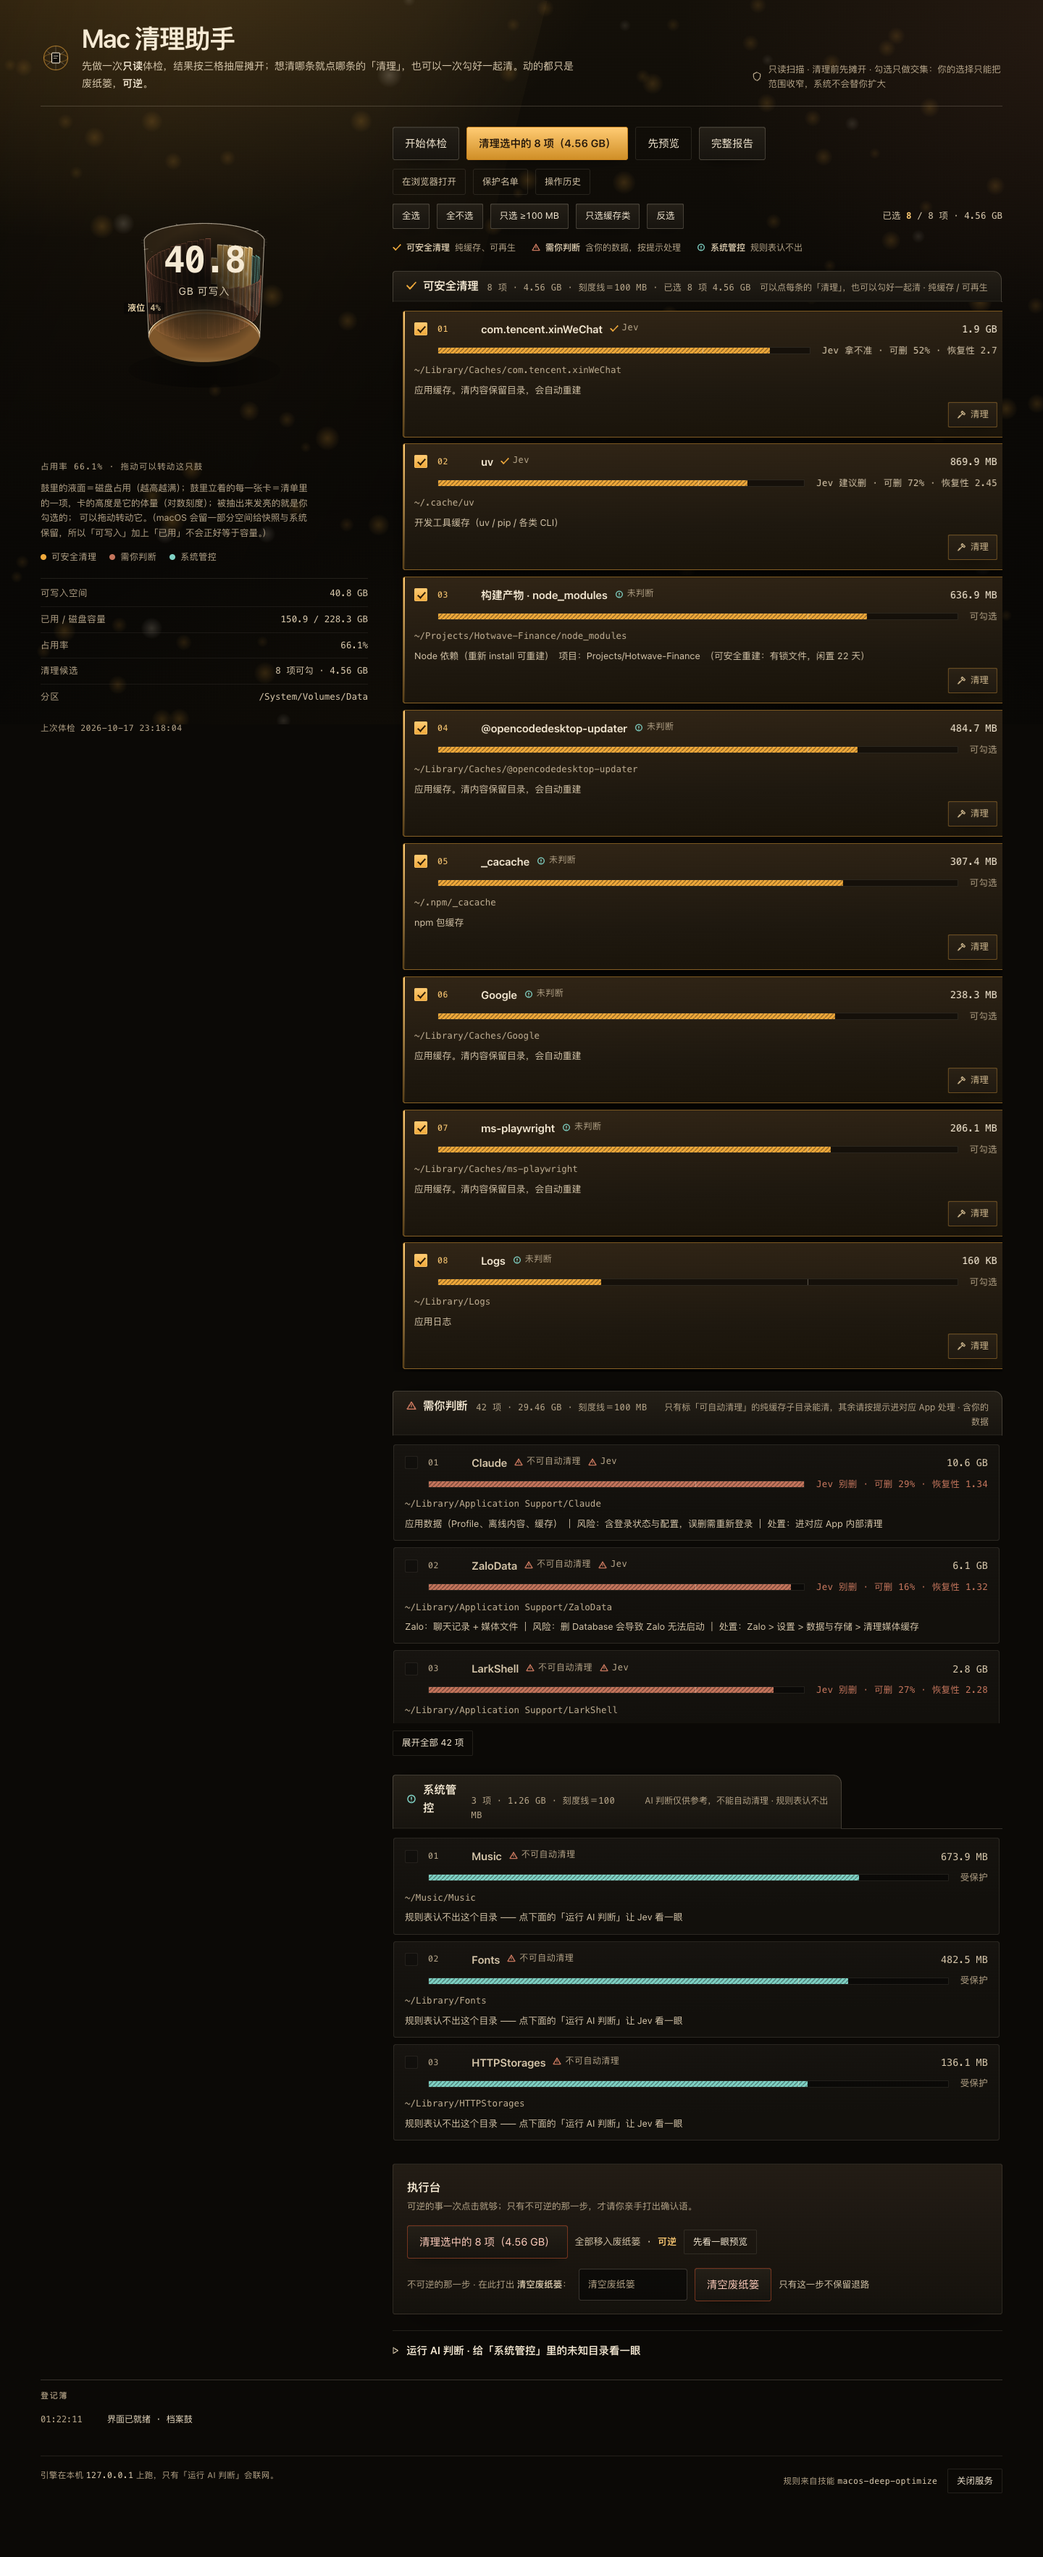
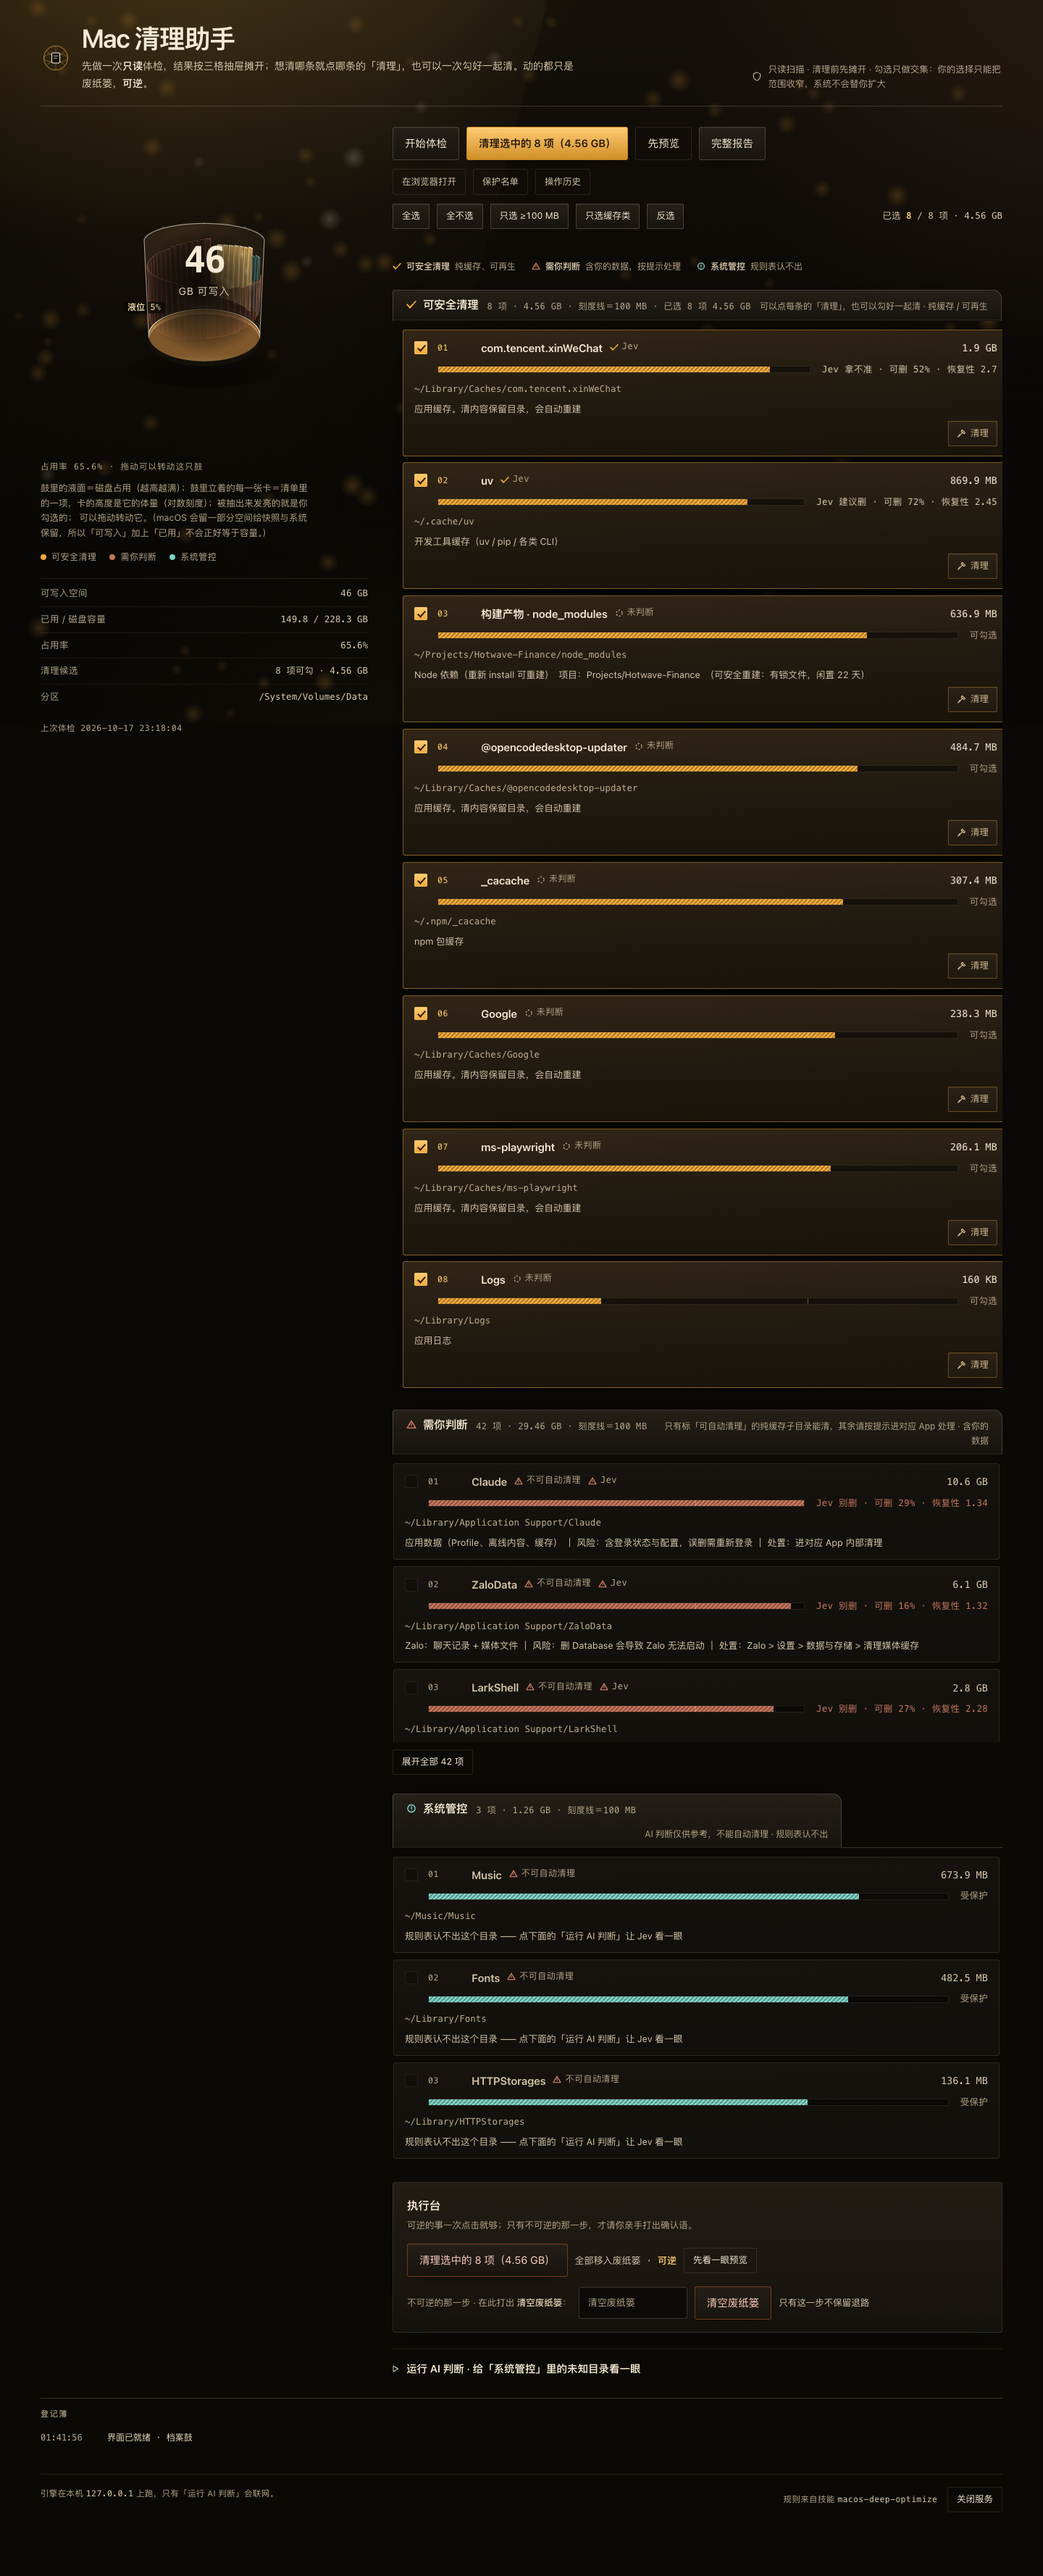
fix(ui): 按 v3 完工评审的 8 条 material fixes 一次修完
1) ★ prefers-reduced-motion 下鼓被冻在空帧、仪器在说谎（源码级问题，截图看不见）
   draw() 只在 !RM 时自转，而 set/spec/consume/eat/pulse/reset 都只改状态不重绘 →
   RM 时永远停在 occAnim=0/grown=0 的初始帧（空鼓 + 液位 0%），旁边 DOM 却写 66%。
   现在任何状态变化都补一帧（schedule()），自转仍只在 !RM 时跑。已补一张 RM 模式下的鼓截图。
2) ≤1180 抽屉标签竖排成一字一行：.drawer-tab 加 flex-wrap，.tier 设 flex:none + nowrap，
   meta 里的「刻度线＝100 MB / 已选 N 项」包成 .nowrap 单元。实测 390 宽下 tier 为单行。
3) 390 宽第一屏没有任何可操作控件（实测主按钮在 CSS y≈1025px）：
   操作条从工作区提出来独立成 .actbar，桌面用 grid-template-areas 放在鼓右侧、
   ≤1180 时排到最前并 sticky。实测 390 宽下主按钮 y=262。
4) 卡内确认面板在 <label> 里，点它会改掉勾选：给 .rowconfirm 拦下 click（preventDefault + stopPropagation）。
   实测点面板文字前后勾选数 8 → 8。
5) 批量闸门默认聚焦破坏性按钮且无焦点陷阱：初始焦点给「取消」，加 Tab 环闭合，关闭后回焦到触发按钮。
6) 全局 Enter/Space 会静默擦掉「已退役」章（键盘用户的状态反馈丢失）：改为点别处才消，
   且不抢 .rowconfirm/按钮/输入框/卡片上的操作；Esc 仍可显式清。
7) 删掉勾选卡左侧 2px 彩色竖条（craft floor 明令禁止项；选中已由底色+描边+位移+投影四重表达）。
8) 鼓上口切点附近飞出的刻度碎屑：刻度改为只画前半周（切点两端留空）。

验收：detector 0 条；--selftest 10/10；证据图 desktop.png(1440) / mobile.png(390) /
drum-closeup.png(液位钉 66%) / drum-reduced-motion.png（RM 下鼓有液面有卡片有读数）

diff --git a/app/index.html b/app/index.html
@@ -58,11 +58,13 @@ h1{margin:0;font-size:36px;font-weight:600;letter-spacing:-.035em;line-height:1.
 .safe-line svg{flex:none}
 
 /* ---------- 舞台 ---------- */
-.stage{display:grid;grid-template-columns:452px minmax(0,1fr);gap:34px;margin-top:28px;align-items:start}
-@media (max-width:1180px){.stage{grid-template-columns:1fr;gap:26px}}
+.stage{display:grid;grid-template-columns:452px minmax(0,1fr);grid-template-areas:"inst actbar" "inst work";gap:26px 34px;margin-top:28px;align-items:start}
+.actbar{grid-area:actbar;min-width:0}
+.stage > section.work{grid-area:work;min-width:0}
+@media (max-width:1180px){.stage{grid-template-columns:1fr;grid-template-areas:"actbar" "inst" "work";gap:20px}}
 
 /* ---------- 档案鼓（真 3D 投影，软件渲染） ---------- */
-.instrument{position:relative}
+.instrument{position:relative;grid-area:inst}
 .drum-wrap{position:relative;width:100%;max-width:452px;aspect-ratio:1/1;margin:0 auto}
 #drum{width:100%;height:100%;display:block;cursor:grab;touch-action:none}
 #drum:active{cursor:grabbing}
@@ -118,14 +120,15 @@ input[type=text]:focus,input[type=password]:focus{border-color:rgba(240,169,59,.
 .vocab .v svg{flex:none}
 .vocab b{color:var(--paper-dim);font-weight:600}
 .drawer{position:relative;transform-style:preserve-3d}
-.drawer-tab{position:relative;display:inline-flex;align-items:baseline;gap:12px;padding:7px 18px 8px;
+.drawer-tab{position:relative;display:inline-flex;align-items:baseline;gap:12px;padding:7px 18px 8px;flex-wrap:wrap;max-width:100%;
   border:1px solid var(--line-2);border-bottom:none;border-radius:4px 12px 0 0;
   background:linear-gradient(180deg,var(--ink-700),var(--ink-800));
   box-shadow:0 -1px 0 rgba(244,231,207,.05) inset,0 -10px 20px -18px #000}
 .drawer-tab::after{content:"";position:absolute;left:0;right:0;bottom:-1px;height:1px;background:var(--ink-800)}
-.tier{display:flex;align-items:center;gap:9px;font-size:15.5px;font-weight:600;letter-spacing:-.012em}
+.tier{display:flex;align-items:center;gap:9px;font-size:15.5px;font-weight:600;letter-spacing:-.012em;flex:none;white-space:nowrap}
 .tier svg{flex:none}
-.drawer-meta{font-family:var(--mono);font-size:12px;color:var(--paper-faint);letter-spacing:.03em}
+.drawer-meta{font-family:var(--mono);font-size:12px;color:var(--paper-faint);letter-spacing:.03em;flex:0 1 auto;min-width:0}
+.nowrap{white-space:nowrap}
 .drawer-body{margin-top:0;display:grid;gap:9px;max-height:var(--cap,2600px);overflow-y:auto;padding:12px 4px 4px 1px;
   border-top:1px solid var(--line-2);transition:max-height .46s cubic-bezier(.16,.84,.24,1)}
 .drawer-body[data-scroll="1"]{--cap:398px}
@@ -148,8 +151,6 @@ button.expand{margin-top:10px;align-self:flex-start}
   background:linear-gradient(178deg,#262019,#171410 62%,#14110D);box-shadow:var(--shadow-card)}
 .card.on{transform:translateX(13px) rotateY(-1.1deg);border-color:rgba(240,169,59,.46);
   background:linear-gradient(178deg,#312516,#1E180F 64%,#191309);box-shadow:var(--shadow-lift)}
-.card.on::before{content:"";position:absolute;left:0;top:0;bottom:0;width:2px;border-radius:2px 0 0 2px;
-  background:linear-gradient(180deg,var(--lamp-hi),rgba(240,169,59,.15))}
 .card.fixed{background:linear-gradient(178deg,#171410,#12100C 70%)}
 .card.releasing{transform:translate(13px,-26px) rotateY(-6deg) scale(1.015);border-color:rgba(255,203,115,.7);
   box-shadow:0 44px 76px -32px rgba(0,0,0,.98);z-index:5}
@@ -287,6 +288,8 @@ footer code{font-family:var(--mono);color:var(--paper-dim)}
 /* ---------- 响应 ---------- */
 @media (max-width:1180px){
   .shell{padding:26px 24px 56px}
+  .actbar{position:sticky;top:0;z-index:30;padding:10px 0 12px;
+    background:linear-gradient(180deg,rgba(11,9,6,.97),rgba(11,9,6,.78) 68%,rgba(11,9,6,0))}
   h1{font-size:29px}
   .drum-wrap{max-width:392px}
   .free{font-size:48px}
@@ -367,7 +370,7 @@ footer code{font-family:var(--mono);color:var(--paper-dim)}
     </section>
 
     <!-- 工作区 -->
-    <section aria-label="清单与操作">
+    <div class="actbar">
       <div class="rail">
         <button class="primary" id="btnScan">开始体检</button>
         <button id="btnCleanSel" disabled>清理选中的 0 项</button>
@@ -388,6 +391,9 @@ footer code{font-family:var(--mono);color:var(--paper-dim)}
         <span class="count" id="selCount">已选 <b>0</b> / 0 项 · 0 KB</span>
       </div>
 
+    </div>
+
+    <section class="work" aria-label="清单与操作">
       <div class="vocab" id="vocab" hidden>
         <span class="v"><svg width="12" height="11" viewBox="0 0 12 11" fill="none"><path d="M1 5.4L4.3 9 11 1.6" stroke="#F0A93B" stroke-width="1.6" stroke-linecap="round"/></svg><b>可安全清理</b> 纯缓存、可再生</span>
         <span class="v"><svg width="12" height="11" viewBox="0 0 12 11" fill="none"><path d="M6 1.2l5 8.4H1z" stroke="#C4755C" stroke-width="1.4" stroke-linejoin="round"/><path d="M6 4.4v2.4" stroke="#C4755C" stroke-width="1.2" stroke-linecap="round"/></svg><b>需你判断</b> 含你的数据，按提示处理</span>
@@ -545,7 +551,7 @@ const drum = (function(){
   const S = 904, C = S/2;
   const R = 244, HH = 224, F = 1430;
   let rotY = 0.5, rotX = 0.40, spin = 0, auto = 1, dragging = false;
-  let occ = 0, occTarget = 0, occAnim = 0, sweep = 0, flash = 0, shock = 0, grown = 0, lastT = 0;
+  let occ = 0, occTarget = 0, occAnim = 0, sweep = 0, flash = 0, shock = 0, grown = 0, lastT = 0, started = false;
   let SPEC = [], CONSUMED = new Set(), EXTRA = new Map();
 
   function project(p){
@@ -671,10 +677,13 @@ const drum = (function(){
     poly([s1,s2]); x.stroke(); poly([s3,s4]); x.stroke();
 
     // 7) 上口刻度 + 未占用那样一圈青弧
-    for (let i=0;i<=40;i++){
-      const a = i/40*6.2832, r1 = R + 2, r2 = R + (i%10===0 ? 20 : 11);
-      x.strokeStyle = i%10===0 ? "rgba(246,234,212,.38)" : "rgba(246,234,212,.16)";
-      x.lineWidth = i%10===0 ? 1.9 : 1;
+    // 刻度只画前半周（视线能看到的这一侧），切点两端留空 —— 画整周会有碎片飞出鼓身轮廓
+    for (let i=1;i<20;i++){
+      const a = aL + (aR-aL)*(i/20);
+      const major = i % 5 === 0;
+      const r1 = R + 2, r2 = R + (major ? 17 : 9);
+      x.strokeStyle = major ? "rgba(246,234,212,.38)" : "rgba(246,234,212,.16)";
+      x.lineWidth = major ? 1.9 : 1;
       poly([pt(a,yTop,r1), pt(a,yTop,r2)]); x.stroke();
     }
 
@@ -732,6 +741,7 @@ const drum = (function(){
     flash *= Math.exp(-4.2*dt); shock *= Math.exp(-2.6*dt);
     if (!RM) requestAnimationFrame(draw);
   }
+  started = true;
   draw();
 
   let downX=0, downRot=0, downY=0, downRotX=0;
@@ -760,10 +770,13 @@ const drum = (function(){
       frame(){ draw(); }
     };
   }
+  // RM（减弱动态效果）时没有自转循环，所以每次状态变化都要自己补一帧重画，
+  // 否则这只仪器会停在初始空帧上撒谎（空鼓 + 液位 0%，旁边文字却写 66%）。
+  function schedule(){ if (RM && started) draw(); }
   return {
-    set(pct){ occTarget = Math.max(0, Math.min(1, pct/100)); },
-    spec(list){ SPEC = list; },
-    consume(paths){ paths.forEach(p => CONSUMED.add(p)); },
+    set(pct){ occTarget = Math.max(0, Math.min(1, pct/100)); schedule(); },
+    spec(list){ SPEC = list; schedule(); },
+    consume(paths){ paths.forEach(p => CONSUMED.add(p)); schedule(); },
     eat(paths){
       const v = [], mKB = maxKB();
       ITEMS.filter(i => paths.includes(i.path)).slice(0, 40).forEach(it => {
@@ -775,10 +788,11 @@ const drum = (function(){
           v.push({ a, y:(Math.random()-.5)*h, r:1.4 + Math.random()*2.2, life:1, delay:Math.random()*.2 });
       });
       EXTRA.set("vortex", v);
+      schedule();
       return v;
     },
-    pulse(){ flash = 1; shock = 1; },
-    reset(){ CONSUMED = new Set(); EXTRA.set("vortex", []); grown = 0; }
+    pulse(){ flash = 1; shock = 1; schedule(); },
+    reset(){ CONSUMED = new Set(); EXTRA.set("vortex", []); grown = 0; schedule(); }
   };
 })();
 
@@ -863,7 +877,7 @@ function renderDrawers(items){
     return `<div class="drawer">
       <div class="drawer-tab">
         <span class="tier">${mark(tier,13)}${t.name}</span>
-        <span class="drawer-meta">${list.length} 项 · ${kb(total)} · 刻度线＝100 MB${selList.length ? ` · 已选 ${selList.length} 项 ${kb(selKB)}` : ""}</span>
+        <span class="drawer-meta">${list.length} 项 · ${kb(total)} · <span class="nowrap">刻度线＝100 MB</span>${selList.length ? ` · <span class="nowrap">已选 ${selList.length} 项 ${kb(selKB)}</span>` : ""}</span>
         <span class="drawer-hint">${hint} · ${t.hint}</span>
       </div>
       <div class="drawer-body" data-scroll="${list.length > 9 ? 1 : 0}">
@@ -901,6 +915,9 @@ function wireRows(){
       rc.hidden = !rc.hidden;
       if (!rc.hidden) rc.querySelector("[data-yes]").focus();
     });
+  });
+  wrap.querySelectorAll(".rowconfirm").forEach(rc => {
+    rc.addEventListener("click", e => { e.preventDefault(); e.stopPropagation(); });
   });
   wrap.querySelectorAll("[data-no]").forEach(b => {
     b.addEventListener("click", e => { e.preventDefault(); b.closest(".rowconfirm").hidden = true; });
@@ -1075,9 +1092,23 @@ function openSheet(){
     `<li><span>${esc(i.name || shortP(i.path).split("/").pop())}</span><span>${esc(i.size)}</span></li>`).join("")
     + (items.length > 6 ? `<li><span>还有 ${items.length-6} 项…</span><span></span></li>` : "");
   $("sheet").hidden = false;
-  $("sheetGo").focus();
+  sheetOpener = document.activeElement;
+  $("sheetNo").focus();                 // 默认焦点不放在破坏性按钮上
 }
-const closeSheet = () => { $("sheet").hidden = true; };
+let sheetOpener = null;
+$("sheet").addEventListener("keydown", e => {
+  if (e.key !== "Tab") return;
+  const f = [...$("sheet").querySelectorAll("button, input, [tabindex]:not([tabindex='-1'])")]
+              .filter(el => !el.disabled && el.offsetParent !== null);
+  if (!f.length) return;
+  const first = f[0], last = f[f.length - 1];
+  if (e.shiftKey && document.activeElement === first){ e.preventDefault(); last.focus(); }
+  else if (!e.shiftKey && document.activeElement === last){ e.preventDefault(); first.focus(); }
+});
+const closeSheet = () => {
+  $("sheet").hidden = true;
+  if (sheetOpener && sheetOpener.focus) sheetOpener.focus();
+};
 
 /* ---------- 交互 ---------- */
 $("btnScan").onclick = async () => {
@@ -1169,11 +1200,22 @@ $("btnQuit").onclick = async () => {
     `<div style="padding:60px 0"><h1 style="margin:0 0 8px">服务已关闭</h1>
      <p style="color:var(--paper-dim);margin:0">要再打开，双击 ~/Applications 里的「Mac 清理助手」。</p></div>`;
 };
+function clearSeen(){
+  SEEN.clear();
+  document.querySelectorAll(".card.seen").forEach(c => c.classList.remove("seen"));
+}
 document.addEventListener("keydown", e => {
-  if (e.key === "Escape"){ closeSheet(); document.querySelectorAll(".rowconfirm").forEach(r => r.hidden = true); }
-  if (SEEN.size && (e.key === "Enter" || e.key === " ")){
-    SEEN.clear(); document.querySelectorAll(".card.seen").forEach(c => c.classList.remove("seen"));
+  if (e.key === "Escape"){
+    closeSheet();
+    document.querySelectorAll(".rowconfirm").forEach(r => r.hidden = true);
+    clearSeen();
   }
+});
+// 退役章亮到"你确实看见为止"：点一下别处就消，但不抢正在操作的控件
+document.addEventListener("pointerdown", e => {
+  if (!SEEN.size) return;
+  if (e.target.closest(".rowconfirm, .act, button, input, label, summary, .card")) return;
+  clearSeen();
 });
 
 /* ---------- 启动 ---------- */
